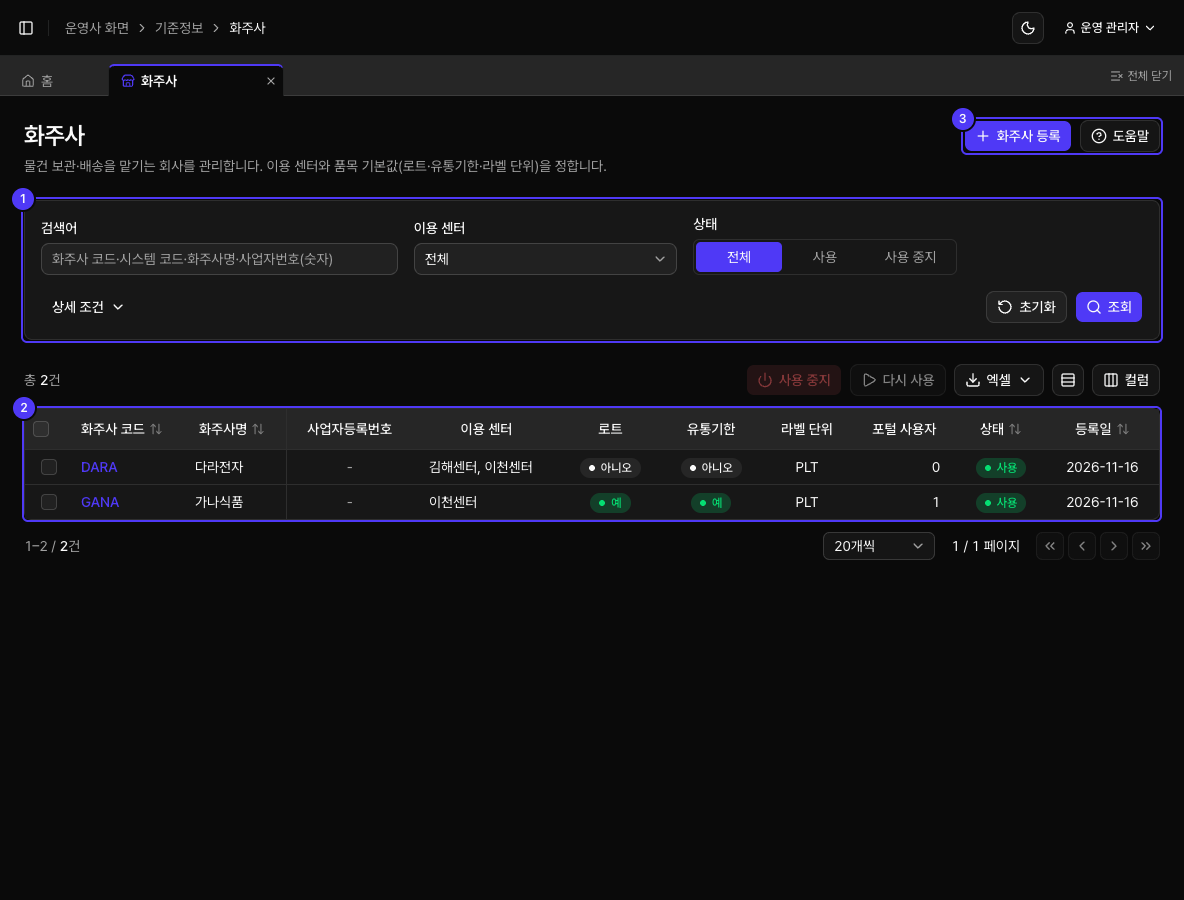
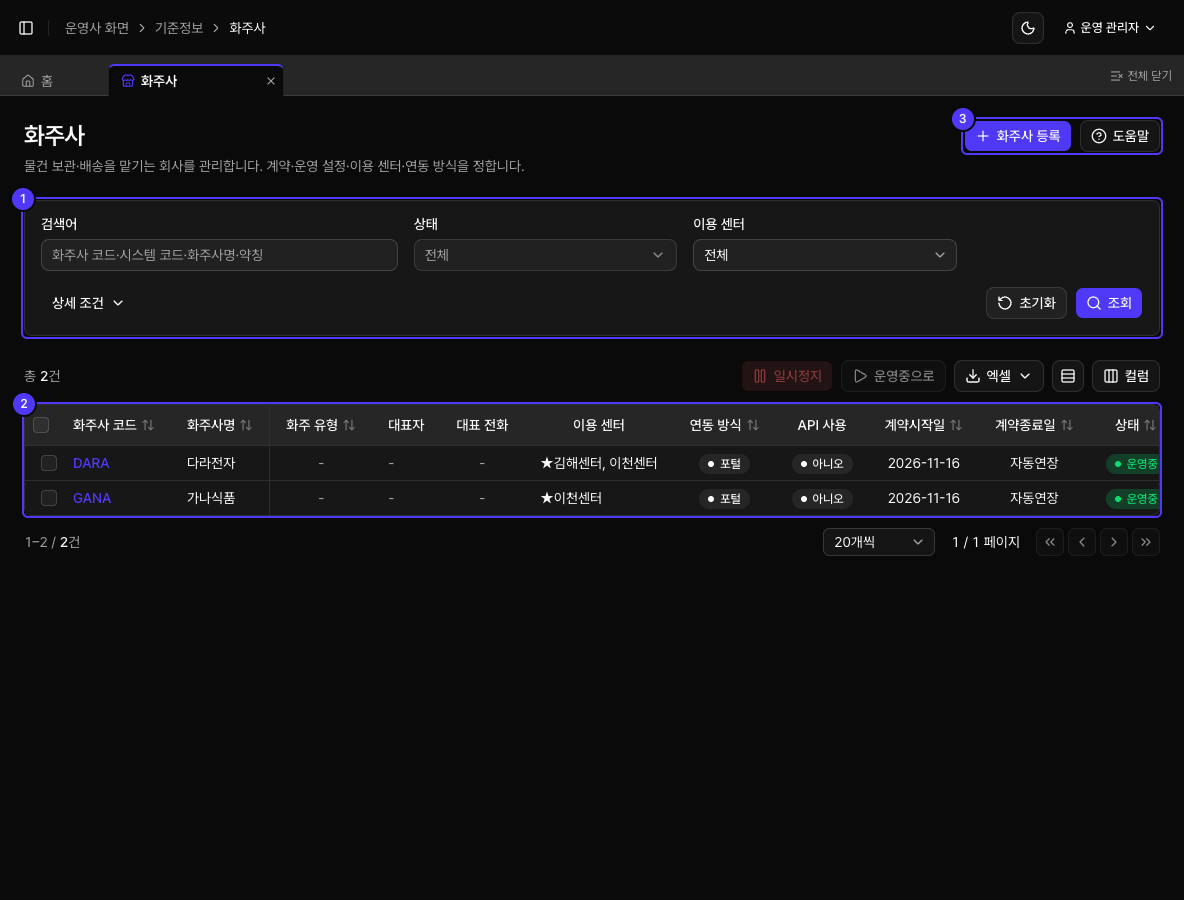
docs: 결정 기록 0080 화주사 정의서 PART 1, 화주사 도움말·사진, ROADMAP

diff --git a/docs/decisions/0080-shipper-spec.md b/docs/decisions/0080-shipper-spec.md
@@ -1,0 +1,98 @@
+# 0080. 화주사 정의서 반영 (PART 1) — 상태 4단계 · 계약·정산 · 운영 설정 상속 · 이용 센터 · 연동 설정
+
+- 날짜: 2026-11-17
+- 상태: 채택
+- 관련: 0035 (화주사 — 이 결정으로 넓힘), 0073 (상속 설정·센터 상태), 0074·0075 (전용 화주사), 0025 (코드 3층), 0030 (공통코드와 상수), 0040 (운영사 요금제 한도)
+- 정의서: `docs/specs/shipper.md` (정의서의 `tb_client`·`client_*`는 기존 `tb_shipper`·`shipper_*`로 읽는다)
+- 코드: `src/lib/shippers/` (`shipper-codes.ts` 상태·정책 상수, `shipper-schema.ts` 입력 규칙, `shippers.ts` 저장, `shipper-defaults.ts` 품목 기본값, `dedicated-shipper.ts` 전용 화주 검사), `src/lib/settings/effective-setting.ts`, `src/app/admin/master/shippers/`
+- 마이그레이션: `20261118000000_shipper_spec`
+
+## 사용자 결정 (모두 추천안)
+
+| 항목 | 결정 |
+| --- | --- |
+| 표 이름 | `tb_shipper` 유지 (정의서의 client를 shipper로 읽음 — 단위 `tb_unit`와 같은 방식) |
+| 작업 범위 | **PART 1(화주 기준정보) 먼저**, PART 2(연동 API: 키·인증·로그·Rate limit·호출 이력)는 다음 작업 |
+| 상태 | 4단계 **상수 + DB 검사**, 기존 사용 중지 → 일시정지 |
+| 담당자 | 공용 담당자 규칙 + 화주사만 최대 10명, 담당 업무 공통코드에 영업·고객응대 추가 |
+| 로트·유통기한 | 비움(NULL = 위 단계 값) 허용, 기존 화주 값은 그대로 |
+| 연동 담당자 | FK 대신 담당자 줄의 **연동 담당** 표시 (담당자는 저장마다 새로 만들어 번호가 바뀌므로) |
+| 사업자등록번호 | 화면·서버 입력 규칙에서 필수, DB는 빈 값 허용 (기존 화주는 고칠 때 채움) |
+| 2차 칸 | **화주×센터 재정의 칸만** DB에 (영업 담당자·보증금·여신 한도·출력 설정·회신 URL은 그 기능 때) |
+
+## 결정
+
+### 표 (`tb_shipper` 칸 추가)
+
+| 묶음 | 칸 |
+| --- | --- |
+| 기본 정보 | 영문명·약칭, 화주 유형·업종(공통코드 `SHIPPER_TYPE`·`SHIPPER_INDUSTRY`), 사업자 구분·법인등록번호·종사업장번호·과세유형(운영사와 같은 상수), 정렬순서, 비고, 확장속성 |
+| 연락처·주소 | 홈페이지, 국가(KR), 지번주소 (법정동코드는 운영사·센터처럼 두지 않음) |
+| 계약·정산 | 계약시작일(필수, 기존은 등록일)·종료일(비면 기한 없음)·자동연장, 정산 주기(공통코드 `SETTLE_CYCLE`), 정산 마감일(비면 운영사 값), 결제 조건(일), 세금계산서 이메일 |
+| 운영 설정 | 할당 규칙·로트·유통기한·시리얼·출고 마감(비면 위 단계), 입고·출고 최소 잔여일(비면 검사 안 함), 부분출고 허용, 재고 부족 시 처리 |
+| 거래처·주문 정책 | 납품처 배송센터 미지정 처리, 납품처 자동 등록, 미등록 품목 허용, 주문번호 중복 기준 (포털·API 공통, 각 작업에서 사용) |
+| 연동 | 연동 방식(PORTAL·API·FILE·EDI), API 사용 |
+| 상태 | `PREPARING`·`ACTIVE`·`SUSPENDED`·`TERMINATED` + 상태 사유(일시정지·해지 필수) |
+
+- **상수 (0030: 값에 따라 동작이 바뀜)**: 상태, 재고 부족 시 처리, 납품처 센터 정책, 주문번호 기준, 연동 방식. DB 검사 조건과 `shipper-codes.ts`의 값 목록이 같다.
+- **공통코드 (분류·표시)**: 화주 유형, 업종, 정산 주기. `code-usage.ts`에 사용처를 등록하고, 새 운영사 기본값(`src/config/defaults/codes.ts`)과 기존 운영사(마이그레이션)에 넣었다.
+
+### 이용 센터 (`tb_shipper_center` 칸 추가)
+
+- 기본 센터(화주당 1개, 부분 고유), 이용 시작일·종료일, 상태(이용중/이용종료), 등록·수정자.
+- 센터별 재정의(할당 규칙·로트·유통기한·시리얼·출고 마감) 칸은 DB만 만들었다. 화면은 2차다.
+- 화면은 `EditableSubTable`이다. 하나뿐이면 저절로 기본이 된다.
+- 빼거나 이용종료로 바꾸는 센터에 이 화주의 **재고·끝나지 않은 입고**가 있으면 막는다 (0035의 TODO 해결).
+- 기존 화주: 센터 코드가 가장 앞인 이용 센터를 기본으로, 시작일은 화주 등록일로 채웠다.
+
+### 담당자
+
+- 공용 `contactSchema` + `isIfContact`로 만들었다.
+- 화주사만 최대 10명이다. 연동 담당은 화주당 1명(부분 고유)이고 이메일이 필수다(DB 검사 조건).
+- 정의서의 "IT 담당자는 이메일 필수"는 공통코드 값(IT)에 동작을 걸지 않으려고 **연동 담당자 이메일 필수**로 바꿨다.
+
+### 상태별 동작
+
+| 상태 | 데이터 범위·로그인 | 새 입고(ASN) | 품목·거래처 등록·포털 사용자 연결 |
+| --- | --- | --- | --- |
+| 준비중 | 됨 | 안 됨 | 됨 |
+| 운영중 | 됨 | 됨 | 됨 |
+| 일시정지 | 됨 (조회만 — 새 업무가 막혀 저절로) | 안 됨 | 안 됨 |
+| 해지 | **로그인 막음** (`SHIPPER_DISABLED`), 범위에서 뺌 | 안 됨 | 안 됨 |
+
+- 함수: `isShipperInScopeStatus`(해지만 뺌), `isShipperSetupStatus`·`SHIPPER_SETUP_ONLY`(준비중·운영중), 새 입고는 기존 `ACTIVE_ONLY`.
+- 상태는 편집 화면 헤더의 [상태 변경] 팝업으로 바꾼다(센터와 같은 모양). 목록에서 여러 곳을 운영중·일시정지로 바꿀 수 있다(해지는 건너뜀).
+- 해지는 재고·끝나지 않은 입고가 없을 때만 된다. 해지된 화주는 읽기 전용이다.
+- PART 2에서 할 일: 해지하면 API 키를 모두 폐기한다 (`changeShipperStatus`의 TODO).
+
+### 상속 (0073 확장) — 조사 의견
+
+- `getEffectiveSetting`: **화주×센터 → 화주 → 센터 → 운영사** (구체적인 쪽이 이긴다). 출처 `SHIPPER_CENTER` 추가.
+- 화주가 센터보다 앞서는 것이 맞다고 판단했다. 로트·할당 규칙·출고 마감은 **화주와의 계약 조건**이고, 센터 값은 그 센터의 기본 운영 방식이기 때문이다. 센터만의 사정이 화주와 다르면 화주×센터 칸으로 정한다.
+- 타임존은 센터 → 운영사만 본다(화주 칸 없음).
+- **품목 기본값**(로트·유통기한·라벨 단위)은 품목이 센터에 묶이지 않아 **품목 → 화주 → 운영사**로 본다. `shipperDefaultsSelect` + `shipperItemDefaults`로 모았고, 품목·ASN·검수·라벨·재고 변경이 모두 이 함수를 쓴다.
+
+### 그 밖의 검사
+
+- 화주 등록 때 운영사 `max_client_cnt` 한도를 본다 (해지 화주도 센다).
+- 같은 운영사에 같은 사업자등록번호가 있으면 **막지 않고 알린다**(저장 후 notice, 사업부별 화주 가능).
+- **전용 화주사**(창고·로케이션)는 그 센터를 이용 중(`ACTIVE`)인 화주만 지정할 수 있다 (`assertDedicatedShipper`). 로케이션은 바꿀 때만 검사한다.
+- 센터 "이용 화주사 수"는 이미 `tb_shipper_center`를 세고 있었다.
+
+### 화면
+
+- **편집**: 기본 정보 / 연락처·주소 / 담당자 / 이용 센터 / 계약·정산 / 운영 설정 / 거래처·주문 정책 / 연동 / 포털 사용자.
+- **헤더**: 상태 배지·연동 방식 배지(API 사용이면 "API")·사유·최종 수정, [상태 변경].
+- **목록**
+  - 검색: 통합검색·상태(여러 개)·이용 센터, 상세 조건으로 화주 유형·업종·연동 방식·API 사용·계약종료일·사업자번호·등록일.
+  - 컬럼: 코드·화주사명·유형·대표자·대표 전화·이용 센터(★ 기본)·연동 방식·API 사용·계약 시작·종료일·상태·등록일.
+  - 기본 정렬: 정렬순서 → 코드.
+- 헤더의 [거래처 보기]·[품목 보기]는 정의서대로 아직 숨긴다.
+
+## 버린 안 · 남은 일
+
+- **`tb_client`로 이름 바꾸기**: 품목·거래처·ASN·재고·사용자가 모두 `shipper_id`로 연결돼 있어 바꾸는 범위에 비해 얻는 것이 없다.
+- **상태를 공통코드로**: 운영사가 값을 바꾸면 로그인·입고 동작이 깨진다.
+- **화주 코드 등록 후 수정 불가**(정의서): 코드 3층(0025)을 유지한다. 시스템 코드가 불변이고 다른 표는 키로 연결하므로, 사용자 코드는 바꿀 수 있게 두었다.
+- **다음 작업 (PART 2)**: API 키(`tb_api_client`·권한·허용 IP), 인증 계층(`/api/v1`, 사용자 로그인과 분리), 요청 로그·건별 결과·멱등 처리, Rate limit, `GET /api/v1/me`, OpenAPI, 호출 이력 화면, 연동 섹션의 키 목록, `api-guide.md`·`api-error-codes.md`.
+- **2차**: 화주×센터 재정의 화면, 영업 담당자·보증금·여신 한도, 출력 설정, 회신 URL(웹훅), 셀프 키 발급.

diff --git a/src/content/help/admin/master/shippers.md b/src/content/help/admin/master/shippers.md
@@ -1,9 +1,9 @@
 ---
 title: 화주사
-summary: 물건 보관·배송을 맡기는 회사(화주사)의 정보, 이용 센터, 품목 기본값을 관리합니다.
+summary: 물건 보관·배송을 맡기는 회사(화주사)의 정보, 계약·정산, 운영 설정, 이용 센터, 연동 방식을 관리합니다.
 ---
 
-센터 직원은 **자기 센터를 이용하는 화주사만** 볼 수 있고, 등록·수정은 운영사 사용자만 합니다.
+센터 직원은 **자기 센터를 이용하는 화주사만** 볼 수 있고, 등록·수정·상태 변경은 운영사 사용자만 합니다.
 
 ![화주사 목록](/help/admin/master/shippers/list.png)
 
@@ -11,27 +11,61 @@ summary: 물건 보관·배송을 맡기는 회사(화주사)의 정보, 이용 
 
 ## 검색 · 목록 보기
 
-- **기본 조건**: 검색어(화주사 코드·시스템 코드·화주사명·사업자번호 숫자), 이용 센터, 상태. **[상세 조건]**: 로트 사용, 유통기한 사용, 라벨 단위, 등록일.
+- **기본 조건**: 검색어(화주사 코드·시스템 코드·화주사명·약칭), 상태(여러 개), 이용 센터.
+- **[상세 조건]**: 화주 유형, 업종, 연동 방식, API 사용, 계약종료일, 사업자등록번호(숫자 일부), 등록일.
+- **이용 센터** 칸의 `★`는 기본 센터입니다. 계약종료일이 비어 있으면 `자동연장`으로 보입니다.
 - 행을 누르면 수정 화면으로 갑니다. 조건·페이지·정렬은 주소창에 남아 [목록]으로 돌아와도 그대로입니다.
+
+## 상태
+
+| 상태 | 포털 로그인 | 새 입고(ASN) | 품목·거래처 등록 |
+| - | - | - | - |
+| 준비중 (새 화주사) | 가능 | 불가 | 가능 |
+| 운영중 | 가능 | 가능 | 가능 |
+| 일시정지 | 조회만 | 불가 | 불가 (진행 중인 입고는 계속 처리) |
+| 해지 | 불가 | 불가 | 불가 |
+
+> [!NOTE]
+> 새 화주사는 **준비중**으로 시작합니다. 품목·포털 사용자를 준비한 뒤 [상태 변경]으로 **운영중**으로 바꿔야 입고를 받을 수 있습니다.
 
 <!-- 권한: master.shippers.create -->
 ## [화주사 등록]
 
-1. 화주사명을 입력합니다. 화주사 코드를 비우면 시스템 코드(`SH000001`)로 채워집니다. `SH000001`처럼 시스템 코드 모양은 쓸 수 없습니다.
-2. 사업자등록번호(선택, 검증번호까지 확인), 연락처·주소를 입력합니다. 번호는 숫자만 쳐도 하이픈이 붙습니다.
-3. **이용 센터**를 1곳 이상 고릅니다. 이 화주사의 물건을 맡는 센터입니다.
-4. **품목 기본값**을 정합니다.
-   - 로트번호 사용 / 유통기한 사용: 쓰면 입고 검수 때 그 값이 필수입니다.
-   - 라벨 단위: 입고 라벨을 붙이는 단위(PLT 팔레트 / BOX 박스, 기본 PLT).
-   - 품목을 등록할 때 이 값을 그대로 쓰거나 품목마다 다르게 정할 수 있습니다.
-5. 담당자(최대 5명, 대표 1명, 연락처·이메일 중 하나 필수)를 입력합니다. [저장]하면 그 자리에 "등록했습니다."가 나오고 입력 칸이 잠깁니다. [계속 등록]을 누르면 빈 양식으로 다음 화주사를 이어서 넣고, [등록한 항목 보기]를 누르면 수정 화면으로 갑니다.
+![화주사 등록 화면](/help/admin/master/shippers/new.png)
+
+① 섹션 목차(누르면 그 섹션으로) · ② 기본 정보 · ③ [저장]
+
+1. **기본 정보**: 화주사명과 **사업자등록번호**(필수, 검증번호까지 확인)를 넣습니다. 화주사 코드를 비우면 시스템 코드(`SH000001`)로 채워집니다. 법인등록번호는 사업자 구분이 법인일 때만 보입니다.
+2. **연락처·주소**: 번호는 숫자만 쳐도 하이픈이 붙습니다. 주소는 반품 회수지 기본값으로도 씁니다.
+3. **담당자**(최대 10명): 연락처·이메일 중 하나 필수, 대표 1명. **연동** 칸을 고른 사람은 API 키 발급·만료 알림을 받는 연동 담당자로, 1명만·이메일 필수입니다.
+4. **이용 센터**: [센터 추가]로 1곳 이상 넣고 **기본** 센터 1곳을 고릅니다(하나뿐이면 저절로 기본). 시작일·종료일·상태(이용중/이용종료)를 정합니다.
+5. **계약·정산**: 계약시작일(필수), 계약종료일(비우면 기한 없음), 자동연장, 정산 주기, 정산 마감일, 결제 조건, 세금계산서 이메일.
+6. **운영 설정**·**거래처·주문 정책**·**연동**을 확인하고 [저장]합니다. 그 자리에 "등록했습니다."가 나오고, [계속 등록]으로 다음 화주사를 넣거나 [등록한 항목 보기]로 수정 화면으로 갑니다.
+
+> [!TIP]
+> 같은 회사의 사업부별 화주처럼 **사업자등록번호가 같은 화주사**도 등록할 수 있습니다. 저장하면 같은 번호의 화주사가 있다고 알려 줍니다.
+
+> [!WARNING]
+> 운영사 요금제에 **최대 화주 수**가 정해져 있으면 그 수를 넘겨 등록할 수 없습니다.
+
+## 운영 설정 (상속)
+
+- **운영사 값 사용**에 체크하면 운영사 설정을 따릅니다(재고할당 규칙·출고 마감시각·로트·유통기한·시리얼 관리·정산 마감일). 체크를 풀면 이 화주사만 다르게 정합니다.
+- 실제로 쓰는 값은 **구체적인 쪽이 이깁니다**: 품목 → 화주사×센터 → 화주사 → 센터 → 운영사.
+- 로트·유통기한 관리는 **품목 기본값**입니다. 품목에서 다시 정할 수 있습니다.
+- 입고·출고 최소 잔여일, 부분출고 허용, 재고 부족 시 처리, 거래처·주문 정책은 출고·주문 작업에서 쓰입니다.
 
 <!-- 권한: master.shippers.update -->
-## 수정 · 사용 중지
+## 수정 · [상태 변경]
 
-- 시스템 코드를 뺀 모든 칸을 고칠 수 있습니다. 이미 연결된 센터가 사용 중지됐어도 이용 센터로 그대로 둘 수 있지만, 새로 붙일 수는 없습니다.
-- **상태** 섹션의 [사용 중지]는 바로 처리됩니다. 사용 중지하면 그 화주사 소속 포털 사용자는 데이터를 볼 수 없습니다. 목록에서 여러 곳을 골라 할 수도 있습니다.
+- 시스템 코드를 뺀 칸을 고칠 수 있습니다. 이미 연결된 센터가 일시중지됐어도 이용 센터로 그대로 둘 수 있지만, 새로 붙일 수는 없습니다.
+- 그 센터에 이 화주사의 **재고나 끝나지 않은 입고**가 있으면 이용 센터에서 빼거나 이용종료로 바꿀 수 없습니다.
+- 화면 위 [상태 변경]으로 준비중·운영중·일시정지·해지를 바꿉니다. 일시정지·해지는 **사유가 필수**입니다.
+- 목록에서 여러 곳을 골라 [일시정지]·[운영중으로]를 한꺼번에 할 수 있습니다(해지된 화주사는 건너뜀).
 - **포털 사용자** 섹션에서 이 화주사 소속 사용자를 확인하고, 사용자 메뉴로 이동할 수 있습니다.
+
+> [!WARNING]
+> **해지**는 재고와 끝나지 않은 입고가 없을 때만 됩니다. 해지하면 소속 포털 사용자는 로그인할 수 없고, 화면은 읽기 전용이 됩니다.
 
 <!-- 권한: master.shippers.export -->
 ## 엑셀

diff --git a/docs/ROADMAP.md b/docs/ROADMAP.md
@@ -104,6 +104,8 @@
   - [x] 시스템 기본 단위의 운영사별 사용/사용 중지 (EA·BOX·PLT·표시 단위 제외, 0079)
   - [x] 시스템 기본 단위의 운영사별 소수 자리수 + 목록 버튼을 고른 단위에 맞게 잠금 (0079)
 - [x] 화주사 정보 관리 (기본값: 로트·유통기한 사용, 라벨 단위 PLT/BOX / 이용 센터 연결, 0035)
+  - [x] 화주사 정의서 PART 1: 상태 4단계·계약·정산·운영 설정 상속(화주×센터까지)·이용 센터(기본·기간)·담당자 10명·연동 설정·전용 화주 검사 (0080)
+  - [ ] 화주사 정의서 PART 2: 연동 API 기반 (API 키·인증 계층·요청 로그·멱등·Rate limit·`GET /api/v1/me`·호출 이력 화면, 0080 남은 일)
 - [x] 화주사 품목 관리 (기본단위, 환산단위·입수량, 로트·유통기한 사용 여부, 라벨 단위, 유통기한 임박 기준 일수) — 운영사 화면 + 화주 포털 (0041)
   - [x] DB(품목·환산단위) + 운영사 화면(목록·등록·수정, 화주사 기본값 상속, 라벨 단위 입수량 안내)
   - [x] 단위 삭제 전 "품목에서 쓰는 단위" 검사(`findUsedUnitIds`) 채우기 (0034)
